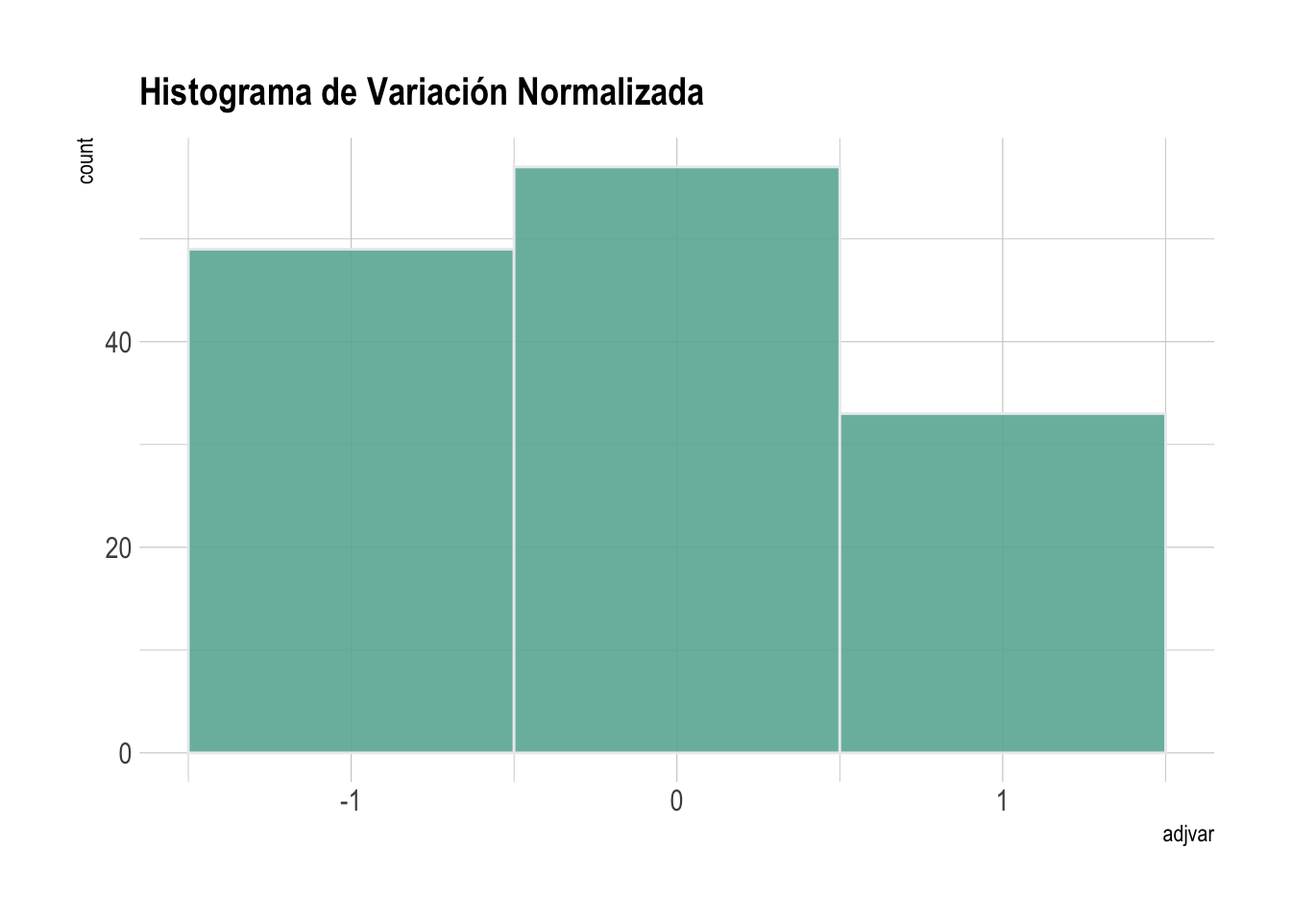
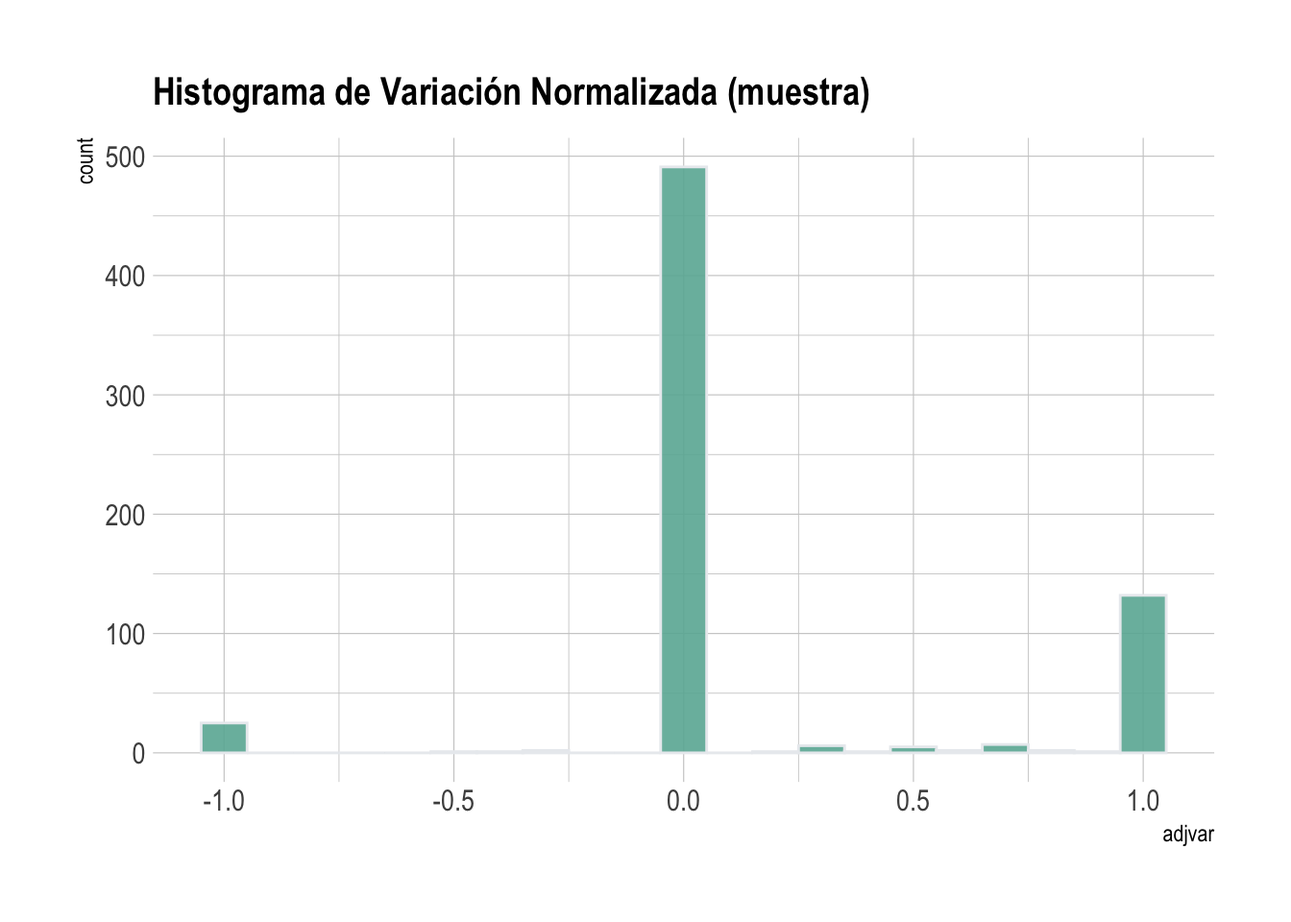
Built site for gh-pages

diff --git a/evo.html b/evo.html
@@ -338,15 +338,15 @@ pre > code.sourceCode > span > a:first-child::before { text-decoration: underlin
 <div class="sourceCode cell-code" id="cb2"><pre class="sourceCode r code-with-copy"><code class="sourceCode r"><span id="cb2-1"><a href="#cb2-1" aria-hidden="true" tabindex="-1"></a>delitos_cat_bc_URB <span class="ot">&lt;-</span> <span class="fu">readRDS</span>(<span class="st">"data/delitos/delitos_eval_bcom_urb.rds"</span>)</span></code><button title="Copy to Clipboard" class="code-copy-button"><i class="bi"></i></button></pre></div>
 </div>
 <div class="cell">
-<div class="sourceCode cell-code" id="cb3"><pre class="sourceCode r code-with-copy"><code class="sourceCode r"><span id="cb3-1"><a href="#cb3-1" aria-hidden="true" tabindex="-1"></a>delitos_cat_bc_URB <span class="ot">&lt;-</span> <span class="fu">readRDS</span>(<span class="st">"data_samples/delitos_eval_bcom_urb.rds"</span>) <span class="sc">%&gt;%</span></span>
-<span id="cb3-2"><a href="#cb3-2" aria-hidden="true" tabindex="-1"></a>  <span class="fu">rename</span>(<span class="at">ZONA =</span> GEOCODIGO, <span class="at">TIPO =</span> Tipo )</span></code><button title="Copy to Clipboard" class="code-copy-button"><i class="bi"></i></button></pre></div>
+<div class="sourceCode cell-code" id="cb3"><pre class="sourceCode r code-with-copy"><code class="sourceCode r"><span id="cb3-1"><a href="#cb3-1" aria-hidden="true" tabindex="-1"></a>delitos_cat_bc_URB <span class="ot">&lt;-</span> <span class="fu">readRDS</span>(<span class="st">"data_samples/delitos_eval_bcom_urb.rds"</span>) </span></code><button title="Copy to Clipboard" class="code-copy-button"><i class="bi"></i></button></pre></div>
 </div>
 <p><strong>Generación de Tablas Resumen por día</strong></p>
 <p>Seleccionamos la columnas que nos interesan y eliminamos la geometría.</p>
 <div class="cell">
 <div class="sourceCode cell-code" id="cb4"><pre class="sourceCode r code-with-copy"><code class="sourceCode r"><span id="cb4-1"><a href="#cb4-1" aria-hidden="true" tabindex="-1"></a>del_all <span class="ot">&lt;-</span> delitos_cat_bc_URB <span class="sc">%&gt;%</span> </span>
-<span id="cb4-2"><a href="#cb4-2" aria-hidden="true" tabindex="-1"></a>  <span class="fu">st_drop_geometry</span>() <span class="sc">%&gt;%</span> </span>
-<span id="cb4-3"><a href="#cb4-3" aria-hidden="true" tabindex="-1"></a>  <span class="fu">select</span>(COMUNA, <span class="at">tiempo =</span> FECHA_DEL,TIPO )</span></code><button title="Copy to Clipboard" class="code-copy-button"><i class="bi"></i></button></pre></div>
+<span id="cb4-2"><a href="#cb4-2" aria-hidden="true" tabindex="-1"></a>  <span class="fu">st_drop_geometry</span>() <span class="sc">%&gt;%</span></span>
+<span id="cb4-3"><a href="#cb4-3" aria-hidden="true" tabindex="-1"></a>  <span class="fu">mutate</span>(<span class="at">tiempo =</span> (<span class="fu">year</span>(FECHA_DEL) <span class="sc">*</span> <span class="dv">100</span>) <span class="sc">+</span> <span class="fu">month</span>(FECHA_DEL)) <span class="sc">%&gt;%</span> </span>
+<span id="cb4-4"><a href="#cb4-4" aria-hidden="true" tabindex="-1"></a>  <span class="fu">select</span>(COMUNA, tiempo, TIPO )</span></code><button title="Copy to Clipboard" class="code-copy-button"><i class="bi"></i></button></pre></div>
 </div>
 <p>Tabla de cuenta de delitos diarios por comuna y tipología</p>
 <div class="cell">
@@ -373,21 +373,9 @@ pre > code.sourceCode > span > a:first-child::before { text-decoration: underlin
 <span id="cb6-2"><a href="#cb6-2" aria-hidden="true" tabindex="-1"></a>  <span class="fu">filter</span>(<span class="sc">!</span><span class="fu">is.na</span>(TIPO)) <span class="sc">%&gt;%</span> </span>
 <span id="cb6-3"><a href="#cb6-3" aria-hidden="true" tabindex="-1"></a>  <span class="fu">group_by</span>(COMUNA, TIPO) <span class="sc">%&gt;%</span> </span>
 <span id="cb6-4"><a href="#cb6-4" aria-hidden="true" tabindex="-1"></a>  <span class="fu">summarise</span>(<span class="at">varianza =</span> <span class="fu">sd</span>(cantidad)<span class="sc">^</span><span class="dv">2</span>,</span>
-<span id="cb6-5"><a href="#cb6-5" aria-hidden="true" tabindex="-1"></a>            <span class="at">cantidad =</span> <span class="fu">n</span>(),  <span class="at">.groups =</span> <span class="st">"keep"</span>)</span>
+<span id="cb6-5"><a href="#cb6-5" aria-hidden="true" tabindex="-1"></a>            <span class="at">cantidad =</span> <span class="fu">sum</span>(cantidad),  <span class="at">.groups =</span> <span class="st">"keep"</span>)</span>
 <span id="cb6-6"><a href="#cb6-6" aria-hidden="true" tabindex="-1"></a></span>
-<span id="cb6-7"><a href="#cb6-7" aria-hidden="true" tabindex="-1"></a><span class="fu">head</span>(varianzas)</span></code><button title="Copy to Clipboard" class="code-copy-button"><i class="bi"></i></button></pre></div>
-<div class="cell-output cell-output-stdout">
-<pre><code># A tibble: 6 × 4
-# Groups:   COMUNA, TIPO [6]
-  COMUNA TIPO     varianza cantidad
-  &lt;chr&gt;  &lt;chr&gt;       &lt;dbl&gt;    &lt;int&gt;
-1 10101  Públicos   0.0428       68
-2 10102  Públicos   0             4
-3 10105  Públicos   0             2
-4 10107  Públicos   0             5
-5 10109  Públicos   0             7
-6 10201  Públicos   0             8</code></pre>
-</div>
+<span id="cb6-7"><a href="#cb6-7" aria-hidden="true" tabindex="-1"></a><span class="co"># head(varianzas)</span></span></code><button title="Copy to Clipboard" class="code-copy-button"><i class="bi"></i></button></pre></div>
 </div>
 </section>
 <section id="periodos" class="level3" data-number="4.3.2">
@@ -395,34 +383,34 @@ pre > code.sourceCode > span > a:first-child::before { text-decoration: underlin
 <p>En esta etapa se van a definir los dos periodos que se compararán y así determinar la variabilidad. En este caso vamos analizar el segundo semestre del año 2017 versus el año 2022.</p>
 <p><strong>Periodo 1</strong></p>
 <div class="cell">
-<div class="sourceCode cell-code" id="cb8"><pre class="sourceCode r code-with-copy"><code class="sourceCode r"><span id="cb8-1"><a href="#cb8-1" aria-hidden="true" tabindex="-1"></a>p1_inicio <span class="ot">&lt;-</span> <span class="st">"2017-07-01"</span></span>
-<span id="cb8-2"><a href="#cb8-2" aria-hidden="true" tabindex="-1"></a>p2_inicio <span class="ot">&lt;-</span> <span class="st">"2017-12-31"</span></span>
-<span id="cb8-3"><a href="#cb8-3" aria-hidden="true" tabindex="-1"></a></span>
-<span id="cb8-4"><a href="#cb8-4" aria-hidden="true" tabindex="-1"></a>ini <span class="ot">&lt;-</span> delcomuna <span class="sc">%&gt;%</span></span>
-<span id="cb8-5"><a href="#cb8-5" aria-hidden="true" tabindex="-1"></a>  <span class="fu">filter</span>(tiempo <span class="sc">&gt;=</span> <span class="fu">ymd</span>(p1_inicio) <span class="sc">&amp;</span> tiempo <span class="sc">&lt;=</span> <span class="fu">ymd</span>(p2_inicio)) <span class="sc">%&gt;%</span> </span>
-<span id="cb8-6"><a href="#cb8-6" aria-hidden="true" tabindex="-1"></a>  <span class="fu">group_by</span>(COMUNA, TIPO) <span class="sc">%&gt;%</span> </span>
-<span id="cb8-7"><a href="#cb8-7" aria-hidden="true" tabindex="-1"></a>  <span class="fu">summarise</span>(<span class="at">inicio =</span> <span class="fu">n</span>(),  <span class="at">.groups =</span> <span class="st">"keep"</span>)</span></code><button title="Copy to Clipboard" class="code-copy-button"><i class="bi"></i></button></pre></div>
+<div class="sourceCode cell-code" id="cb7"><pre class="sourceCode r code-with-copy"><code class="sourceCode r"><span id="cb7-1"><a href="#cb7-1" aria-hidden="true" tabindex="-1"></a>p1_inicio <span class="ot">&lt;-</span> <span class="dv">201707</span></span>
+<span id="cb7-2"><a href="#cb7-2" aria-hidden="true" tabindex="-1"></a>p1_final <span class="ot">&lt;-</span> <span class="dv">201707</span></span>
+<span id="cb7-3"><a href="#cb7-3" aria-hidden="true" tabindex="-1"></a></span>
+<span id="cb7-4"><a href="#cb7-4" aria-hidden="true" tabindex="-1"></a>ini <span class="ot">&lt;-</span> delcomuna <span class="sc">%&gt;%</span></span>
+<span id="cb7-5"><a href="#cb7-5" aria-hidden="true" tabindex="-1"></a>  <span class="fu">filter</span>(tiempo  <span class="sc">%in%</span> p1_inicio<span class="sc">:</span>p1_final) <span class="sc">%&gt;%</span> </span>
+<span id="cb7-6"><a href="#cb7-6" aria-hidden="true" tabindex="-1"></a>  <span class="fu">group_by</span>(COMUNA, TIPO) <span class="sc">%&gt;%</span> </span>
+<span id="cb7-7"><a href="#cb7-7" aria-hidden="true" tabindex="-1"></a>  <span class="fu">summarise</span>(<span class="at">inicio =</span> <span class="fu">sum</span>(cantidad),  <span class="at">.groups =</span> <span class="st">"keep"</span>)</span></code><button title="Copy to Clipboard" class="code-copy-button"><i class="bi"></i></button></pre></div>
 </div>
-<p><strong>Periodo 1</strong></p>
+<p><strong>Periodo 2</strong></p>
 <div class="cell">
-<div class="sourceCode cell-code" id="cb9"><pre class="sourceCode r code-with-copy"><code class="sourceCode r"><span id="cb9-1"><a href="#cb9-1" aria-hidden="true" tabindex="-1"></a>p1_fin <span class="ot">&lt;-</span> <span class="st">"2022-07-01"</span></span>
-<span id="cb9-2"><a href="#cb9-2" aria-hidden="true" tabindex="-1"></a>p2_fin <span class="ot">&lt;-</span> <span class="st">"2022-12-31"</span></span>
-<span id="cb9-3"><a href="#cb9-3" aria-hidden="true" tabindex="-1"></a></span>
-<span id="cb9-4"><a href="#cb9-4" aria-hidden="true" tabindex="-1"></a>fin <span class="ot">&lt;-</span> delcomuna <span class="sc">%&gt;%</span></span>
-<span id="cb9-5"><a href="#cb9-5" aria-hidden="true" tabindex="-1"></a>  <span class="fu">filter</span>(tiempo <span class="sc">&gt;=</span> <span class="fu">ymd</span>(p1_fin) <span class="sc">&amp;</span> tiempo <span class="sc">&lt;=</span> <span class="fu">ymd</span>(p2_fin)) <span class="sc">%&gt;%</span> </span>
-<span id="cb9-6"><a href="#cb9-6" aria-hidden="true" tabindex="-1"></a>  <span class="fu">group_by</span>(COMUNA, TIPO) <span class="sc">%&gt;%</span> </span>
-<span id="cb9-7"><a href="#cb9-7" aria-hidden="true" tabindex="-1"></a>  <span class="fu">summarise</span>(<span class="at">fin =</span> <span class="fu">n</span>(),  <span class="at">.groups =</span> <span class="st">"keep"</span>)</span></code><button title="Copy to Clipboard" class="code-copy-button"><i class="bi"></i></button></pre></div>
+<div class="sourceCode cell-code" id="cb8"><pre class="sourceCode r code-with-copy"><code class="sourceCode r"><span id="cb8-1"><a href="#cb8-1" aria-hidden="true" tabindex="-1"></a>p2_inicio <span class="ot">&lt;-</span> <span class="dv">202207</span></span>
+<span id="cb8-2"><a href="#cb8-2" aria-hidden="true" tabindex="-1"></a>p2_final <span class="ot">&lt;-</span> <span class="dv">202212</span></span>
+<span id="cb8-3"><a href="#cb8-3" aria-hidden="true" tabindex="-1"></a></span>
+<span id="cb8-4"><a href="#cb8-4" aria-hidden="true" tabindex="-1"></a>fin <span class="ot">&lt;-</span> delcomuna <span class="sc">%&gt;%</span></span>
+<span id="cb8-5"><a href="#cb8-5" aria-hidden="true" tabindex="-1"></a>  <span class="fu">filter</span>(tiempo  <span class="sc">%in%</span> p2_inicio<span class="sc">:</span>p2_final) <span class="sc">%&gt;%</span> </span>
+<span id="cb8-6"><a href="#cb8-6" aria-hidden="true" tabindex="-1"></a>  <span class="fu">group_by</span>(COMUNA, TIPO) <span class="sc">%&gt;%</span> </span>
+<span id="cb8-7"><a href="#cb8-7" aria-hidden="true" tabindex="-1"></a>  <span class="fu">summarise</span>(<span class="at">fin =</span> <span class="fu">sum</span>(cantidad),  <span class="at">.groups =</span> <span class="st">"keep"</span>)</span></code><button title="Copy to Clipboard" class="code-copy-button"><i class="bi"></i></button></pre></div>
 </div>
 </section>
 <section id="consolidación" class="level3" data-number="4.3.3">
 <h3 data-number="4.3.3" class="anchored" data-anchor-id="consolidación"><span class="header-section-number">4.3.3</span> Consolidación</h3>
 <p>Finalmente se unen las tablas calculadas.</p>
 <div class="cell">
-<div class="sourceCode cell-code" id="cb10"><pre class="sourceCode r code-with-copy"><code class="sourceCode r"><span id="cb10-1"><a href="#cb10-1" aria-hidden="true" tabindex="-1"></a>adjvar <span class="ot">&lt;-</span> varianzas <span class="sc">%&gt;%</span> </span>
-<span id="cb10-2"><a href="#cb10-2" aria-hidden="true" tabindex="-1"></a>  <span class="fu">left_join</span>(ini, <span class="at">by =</span> <span class="fu">c</span>(<span class="st">"COMUNA"</span>, <span class="st">"TIPO"</span>)) <span class="sc">%&gt;%</span> </span>
-<span id="cb10-3"><a href="#cb10-3" aria-hidden="true" tabindex="-1"></a>  <span class="fu">left_join</span>(fin, <span class="at">by =</span> <span class="fu">c</span>(<span class="st">"COMUNA"</span>, <span class="st">"TIPO"</span>)) <span class="sc">%&gt;%</span> </span>
-<span id="cb10-4"><a href="#cb10-4" aria-hidden="true" tabindex="-1"></a>  <span class="fu">mutate_if</span>(<span class="at">.predicate =</span> is.numeric,</span>
-<span id="cb10-5"><a href="#cb10-5" aria-hidden="true" tabindex="-1"></a>            <span class="at">.funs =</span> <span class="cf">function</span>(x) <span class="fu">ifelse</span>(<span class="fu">is.na</span>(x), <span class="dv">0</span>, x))</span></code><button title="Copy to Clipboard" class="code-copy-button"><i class="bi"></i></button></pre></div>
+<div class="sourceCode cell-code" id="cb9"><pre class="sourceCode r code-with-copy"><code class="sourceCode r"><span id="cb9-1"><a href="#cb9-1" aria-hidden="true" tabindex="-1"></a>adjvar <span class="ot">&lt;-</span> varianzas <span class="sc">%&gt;%</span> </span>
+<span id="cb9-2"><a href="#cb9-2" aria-hidden="true" tabindex="-1"></a>  <span class="fu">left_join</span>(ini, <span class="at">by =</span> <span class="fu">c</span>(<span class="st">"COMUNA"</span>, <span class="st">"TIPO"</span>)) <span class="sc">%&gt;%</span> </span>
+<span id="cb9-3"><a href="#cb9-3" aria-hidden="true" tabindex="-1"></a>  <span class="fu">left_join</span>(fin, <span class="at">by =</span> <span class="fu">c</span>(<span class="st">"COMUNA"</span>, <span class="st">"TIPO"</span>)) <span class="sc">%&gt;%</span> </span>
+<span id="cb9-4"><a href="#cb9-4" aria-hidden="true" tabindex="-1"></a>  <span class="fu">mutate_if</span>(<span class="at">.predicate =</span> is.numeric,</span>
+<span id="cb9-5"><a href="#cb9-5" aria-hidden="true" tabindex="-1"></a>            <span class="at">.funs =</span> <span class="cf">function</span>(x) <span class="fu">ifelse</span>(<span class="fu">is.na</span>(x), <span class="dv">0</span>, x))</span></code><button title="Copy to Clipboard" class="code-copy-button"><i class="bi"></i></button></pre></div>
 </div>
 </section>
 </section>
@@ -430,22 +418,24 @@ pre > code.sourceCode > span > a:first-child::before { text-decoration: underlin
 <h2 data-number="4.4" class="anchored" data-anchor-id="indicador-de-variación"><span class="header-section-number">4.4</span> Indicador de Variación</h2>
 <p>En esta etapa se calcularà el indicador de la variación por cada tipo de delito y comuna. Corresponde a la diferencia entre los periodos (evolución) y se divide la suma de los dos períodos, para que el valor quede normalizado en valores entre 1 y -1.</p>
 <div class="cell">
-<div class="sourceCode cell-code" id="cb11"><pre class="sourceCode r code-with-copy"><code class="sourceCode r"><span id="cb11-1"><a href="#cb11-1" aria-hidden="true" tabindex="-1"></a>adjvar <span class="ot">&lt;-</span> adjvar <span class="sc">%&gt;%</span> </span>
-<span id="cb11-2"><a href="#cb11-2" aria-hidden="true" tabindex="-1"></a>  <span class="fu">mutate</span>(<span class="at">adjvar =</span> (fin<span class="sc">-</span>inicio)<span class="sc">/</span>(fin<span class="sc">+</span>inicio))</span></code><button title="Copy to Clipboard" class="code-copy-button"><i class="bi"></i></button></pre></div>
+<div class="sourceCode cell-code" id="cb10"><pre class="sourceCode r code-with-copy"><code class="sourceCode r"><span id="cb10-1"><a href="#cb10-1" aria-hidden="true" tabindex="-1"></a>adjvar <span class="ot">&lt;-</span> adjvar <span class="sc">%&gt;%</span> </span>
+<span id="cb10-2"><a href="#cb10-2" aria-hidden="true" tabindex="-1"></a>  <span class="fu">mutate</span>(<span class="at">adjvar =</span> (fin<span class="sc">-</span>inicio)<span class="sc">/</span>(fin<span class="sc">+</span>inicio)) <span class="sc">%&gt;%</span> </span>
+<span id="cb10-3"><a href="#cb10-3" aria-hidden="true" tabindex="-1"></a>  <span class="fu">mutate_if</span>(<span class="at">.predicate =</span> is.numeric,</span>
+<span id="cb10-4"><a href="#cb10-4" aria-hidden="true" tabindex="-1"></a>            <span class="at">.funs =</span> <span class="cf">function</span>(x) <span class="fu">ifelse</span>(<span class="fu">is.na</span>(x), <span class="dv">0</span>, x))</span></code><button title="Copy to Clipboard" class="code-copy-button"><i class="bi"></i></button></pre></div>
 </div>
 <p>Histograma de la Variabilidad.</p>
 <div class="cell">
-<div class="sourceCode cell-code" id="cb12"><pre class="sourceCode r code-with-copy"><code class="sourceCode r"><span id="cb12-1"><a href="#cb12-1" aria-hidden="true" tabindex="-1"></a><span class="fu">library</span>(hrbrthemes)</span>
-<span id="cb12-2"><a href="#cb12-2" aria-hidden="true" tabindex="-1"></a>p <span class="ot">&lt;-</span> adjvar <span class="sc">%&gt;%</span></span>
-<span id="cb12-3"><a href="#cb12-3" aria-hidden="true" tabindex="-1"></a>  <span class="fu">ggplot</span>( <span class="fu">aes</span>(<span class="at">x=</span>adjvar)) <span class="sc">+</span></span>
-<span id="cb12-4"><a href="#cb12-4" aria-hidden="true" tabindex="-1"></a>    <span class="fu">geom_histogram</span>( <span class="at">binwidth=</span><span class="dv">1</span>,<span class="at">bins =</span> <span class="dv">3</span>, </span>
-<span id="cb12-5"><a href="#cb12-5" aria-hidden="true" tabindex="-1"></a>                    <span class="at">fill=</span><span class="st">"#69b3a2"</span>, <span class="at">color=</span><span class="st">"#e9ecef"</span>, <span class="at">alpha=</span><span class="fl">0.9</span>) <span class="sc">+</span></span>
-<span id="cb12-6"><a href="#cb12-6" aria-hidden="true" tabindex="-1"></a>    <span class="fu">ggtitle</span>(<span class="st">"Histograma de Variación Normalizada"</span>) <span class="sc">+</span></span>
-<span id="cb12-7"><a href="#cb12-7" aria-hidden="true" tabindex="-1"></a>    <span class="fu">theme_ipsum</span>() <span class="sc">+</span></span>
-<span id="cb12-8"><a href="#cb12-8" aria-hidden="true" tabindex="-1"></a>    <span class="fu">theme</span>(</span>
-<span id="cb12-9"><a href="#cb12-9" aria-hidden="true" tabindex="-1"></a>      <span class="at">plot.title =</span> <span class="fu">element_text</span>(<span class="at">size=</span><span class="dv">15</span>)</span>
-<span id="cb12-10"><a href="#cb12-10" aria-hidden="true" tabindex="-1"></a>    )</span>
-<span id="cb12-11"><a href="#cb12-11" aria-hidden="true" tabindex="-1"></a>p</span></code><button title="Copy to Clipboard" class="code-copy-button"><i class="bi"></i></button></pre></div>
+<div class="sourceCode cell-code" id="cb11"><pre class="sourceCode r code-with-copy"><code class="sourceCode r"><span id="cb11-1"><a href="#cb11-1" aria-hidden="true" tabindex="-1"></a><span class="fu">library</span>(hrbrthemes)</span>
+<span id="cb11-2"><a href="#cb11-2" aria-hidden="true" tabindex="-1"></a>p <span class="ot">&lt;-</span> adjvar <span class="sc">%&gt;%</span></span>
+<span id="cb11-3"><a href="#cb11-3" aria-hidden="true" tabindex="-1"></a>  <span class="fu">ggplot</span>( <span class="fu">aes</span>(<span class="at">x=</span>adjvar)) <span class="sc">+</span></span>
+<span id="cb11-4"><a href="#cb11-4" aria-hidden="true" tabindex="-1"></a>    <span class="fu">geom_histogram</span>( <span class="at">binwidth=</span><span class="fl">0.1</span>, </span>
+<span id="cb11-5"><a href="#cb11-5" aria-hidden="true" tabindex="-1"></a>                    <span class="at">fill=</span><span class="st">"#69b3a2"</span>, <span class="at">color=</span><span class="st">"#e9ecef"</span>, <span class="at">alpha=</span><span class="fl">0.9</span>) <span class="sc">+</span></span>
+<span id="cb11-6"><a href="#cb11-6" aria-hidden="true" tabindex="-1"></a>    <span class="fu">ggtitle</span>(<span class="st">"Histograma de Variación Normalizada (muestra)"</span>) <span class="sc">+</span></span>
+<span id="cb11-7"><a href="#cb11-7" aria-hidden="true" tabindex="-1"></a>    <span class="fu">theme_ipsum</span>() <span class="sc">+</span></span>
+<span id="cb11-8"><a href="#cb11-8" aria-hidden="true" tabindex="-1"></a>    <span class="fu">theme</span>(</span>
+<span id="cb11-9"><a href="#cb11-9" aria-hidden="true" tabindex="-1"></a>      <span class="at">plot.title =</span> <span class="fu">element_text</span>(<span class="at">size=</span><span class="dv">15</span>)</span>
+<span id="cb11-10"><a href="#cb11-10" aria-hidden="true" tabindex="-1"></a>    )</span>
+<span id="cb11-11"><a href="#cb11-11" aria-hidden="true" tabindex="-1"></a>p</span></code><button title="Copy to Clipboard" class="code-copy-button"><i class="bi"></i></button></pre></div>
 <div class="cell-output-display">
 <p><img src="evo_files/figure-html/unnamed-chunk-11-1.png" class="img-fluid" width="672"></p>
 </div>
@@ -456,54 +446,54 @@ pre > code.sourceCode > span > a:first-child::before { text-decoration: underlin
 <p>Finalmente se agregará elos resultados del análisis a la la geometrías comunales de Chile para poder cartografias los resultados.</p>
 <p>Se de primeramente transformar las estructra de datos de formato largo a formato ancho, para que los valores de variabilidad de cada tipo de delito quede por columnas.</p>
 <div class="cell">
-<div class="sourceCode cell-code" id="cb13"><pre class="sourceCode r code-with-copy"><code class="sourceCode r"><span id="cb13-1"><a href="#cb13-1" aria-hidden="true" tabindex="-1"></a>varianzas <span class="ot">&lt;-</span> adjvar <span class="sc">%&gt;%</span> </span>
-<span id="cb13-2"><a href="#cb13-2" aria-hidden="true" tabindex="-1"></a>  <span class="fu">mutate</span>(<span class="at">TIPO =</span> <span class="fu">gsub</span>(<span class="at">pattern =</span> <span class="st">" "</span>, <span class="at">replacement =</span> <span class="st">"_"</span>, <span class="at">x =</span> TIPO)) <span class="sc">%&gt;%</span> </span>
-<span id="cb13-3"><a href="#cb13-3" aria-hidden="true" tabindex="-1"></a>  <span class="fu">pivot_wider</span>(<span class="at">names_from =</span> TIPO,</span>
-<span id="cb13-4"><a href="#cb13-4" aria-hidden="true" tabindex="-1"></a>              <span class="at">values_from =</span> <span class="fu">c</span>(varianza, cantidad, inicio, fin, adjvar))</span></code><button title="Copy to Clipboard" class="code-copy-button"><i class="bi"></i></button></pre></div>
+<div class="sourceCode cell-code" id="cb12"><pre class="sourceCode r code-with-copy"><code class="sourceCode r"><span id="cb12-1"><a href="#cb12-1" aria-hidden="true" tabindex="-1"></a>varianzas <span class="ot">&lt;-</span> adjvar <span class="sc">%&gt;%</span></span>
+<span id="cb12-2"><a href="#cb12-2" aria-hidden="true" tabindex="-1"></a>  <span class="fu">select</span>(<span class="sc">-</span>varianza, <span class="sc">-</span>cantidad, <span class="sc">-</span>inicio, <span class="sc">-</span>fin) <span class="sc">%&gt;%</span> </span>
+<span id="cb12-3"><a href="#cb12-3" aria-hidden="true" tabindex="-1"></a>  <span class="fu">mutate</span>(<span class="at">TIPO =</span> <span class="fu">gsub</span>(<span class="at">pattern =</span> <span class="st">" "</span>, <span class="at">replacement =</span> <span class="st">"_"</span>, <span class="at">x =</span> TIPO)) <span class="sc">%&gt;%</span> </span>
+<span id="cb12-4"><a href="#cb12-4" aria-hidden="true" tabindex="-1"></a>  <span class="fu">pivot_wider</span>(<span class="at">names_from =</span> TIPO,</span>
+<span id="cb12-5"><a href="#cb12-5" aria-hidden="true" tabindex="-1"></a>              <span class="at">values_from =</span> <span class="fu">c</span>(adjvar), <span class="at">values_fill =</span> <span class="dv">0</span>)</span></code><button title="Copy to Clipboard" class="code-copy-button"><i class="bi"></i></button></pre></div>
 </div>
-<p>Agregar a lagesometrias comunales del INE.</p>
+<p>Agregar a la geometrias comunales del INE.</p>
 <div class="cell">
-<div class="sourceCode cell-code" id="cb14"><pre class="sourceCode r code-with-copy"><code class="sourceCode r"><span id="cb14-1"><a href="#cb14-1" aria-hidden="true" tabindex="-1"></a>Comunas_Chile <span class="ot">&lt;-</span> <span class="fu">readRDS</span>(<span class="st">"data/ine/Comunas_Chile.rds"</span>)</span></code><button title="Copy to Clipboard" class="code-copy-button"><i class="bi"></i></button></pre></div>
+<div class="sourceCode cell-code" id="cb13"><pre class="sourceCode r code-with-copy"><code class="sourceCode r"><span id="cb13-1"><a href="#cb13-1" aria-hidden="true" tabindex="-1"></a>Comunas_Chile <span class="ot">&lt;-</span> <span class="fu">readRDS</span>(<span class="st">"data/ine/Comunas_Chile.rds"</span>)</span></code><button title="Copy to Clipboard" class="code-copy-button"><i class="bi"></i></button></pre></div>
 </div>
 <div class="cell">
-<div class="sourceCode cell-code" id="cb15"><pre class="sourceCode r code-with-copy"><code class="sourceCode r"><span id="cb15-1"><a href="#cb15-1" aria-hidden="true" tabindex="-1"></a>comdel_dif <span class="ot">&lt;-</span> Comunas_Chile <span class="sc">%&gt;%</span> </span>
-<span id="cb15-2"><a href="#cb15-2" aria-hidden="true" tabindex="-1"></a>  <span class="fu">filter</span>(COMUNA <span class="sc">%in%</span> varianzas<span class="sc">$</span>COMUNA) <span class="sc">%&gt;%</span></span>
-<span id="cb15-3"><a href="#cb15-3" aria-hidden="true" tabindex="-1"></a>  <span class="fu">left_join</span>(varianzas, <span class="at">by  =</span> <span class="st">"COMUNA"</span>) <span class="sc">%&gt;%</span> </span>
-<span id="cb15-4"><a href="#cb15-4" aria-hidden="true" tabindex="-1"></a>  <span class="fu">mutate_if</span>(<span class="at">.predicate =</span> is.numeric,</span>
-<span id="cb15-5"><a href="#cb15-5" aria-hidden="true" tabindex="-1"></a>            <span class="at">.funs =</span> <span class="cf">function</span>(x) <span class="fu">ifelse</span>(<span class="fu">is.na</span>(x), <span class="dv">0</span>, x))</span></code><button title="Copy to Clipboard" class="code-copy-button"><i class="bi"></i></button></pre></div>
+<div class="sourceCode cell-code" id="cb14"><pre class="sourceCode r code-with-copy"><code class="sourceCode r"><span id="cb14-1"><a href="#cb14-1" aria-hidden="true" tabindex="-1"></a>comdel_dif <span class="ot">&lt;-</span> Comunas_Chile <span class="sc">%&gt;%</span> </span>
+<span id="cb14-2"><a href="#cb14-2" aria-hidden="true" tabindex="-1"></a>  <span class="fu">left_join</span>(varianzas, <span class="at">by  =</span> <span class="st">"COMUNA"</span>) <span class="sc">%&gt;%</span> </span>
+<span id="cb14-3"><a href="#cb14-3" aria-hidden="true" tabindex="-1"></a>  <span class="fu">mutate_if</span>(<span class="at">.predicate =</span> is.numeric,</span>
+<span id="cb14-4"><a href="#cb14-4" aria-hidden="true" tabindex="-1"></a>            <span class="at">.funs =</span> <span class="cf">function</span>(x) <span class="fu">ifelse</span>(<span class="fu">is.na</span>(x), <span class="dv">0</span>, x))</span></code><button title="Copy to Clipboard" class="code-copy-button"><i class="bi"></i></button></pre></div>
 </div>
 <p>Guardar Resultados en formato shapefiles</p>
 <div class="cell">
-<div class="sourceCode cell-code" id="cb16"><pre class="sourceCode r code-with-copy"><code class="sourceCode r"><span id="cb16-1"><a href="#cb16-1" aria-hidden="true" tabindex="-1"></a><span class="fu">st_write</span>(comdel_dif, <span class="st">"data/delitos/comdel_dif.shp"</span>)</span></code><button title="Copy to Clipboard" class="code-copy-button"><i class="bi"></i></button></pre></div>
+<div class="sourceCode cell-code" id="cb15"><pre class="sourceCode r code-with-copy"><code class="sourceCode r"><span id="cb15-1"><a href="#cb15-1" aria-hidden="true" tabindex="-1"></a><span class="fu">st_write</span>(comdel_dif, <span class="st">"data/delitos/comdel_dif.shp"</span>, <span class="at">delete_dsn =</span> T)</span></code><button title="Copy to Clipboard" class="code-copy-button"><i class="bi"></i></button></pre></div>
 </div>
 <section id="revisión-por-tipología" class="level3" data-number="4.5.1">
 <h3 data-number="4.5.1" class="anchored" data-anchor-id="revisión-por-tipología"><span class="header-section-number">4.5.1</span> Revisión por tipología</h3>
 <p><strong>Selección de Región y Tipo de Delitos</strong></p>
 <div class="cell">
-<div class="sourceCode cell-code" id="cb17"><pre class="sourceCode r code-with-copy"><code class="sourceCode r"><span id="cb17-1"><a href="#cb17-1" aria-hidden="true" tabindex="-1"></a><span class="co"># grep(pattern = "Secuestros", x = names(comdel_dif), value = T)</span></span>
-<span id="cb17-2"><a href="#cb17-2" aria-hidden="true" tabindex="-1"></a>tipo <span class="ot">=</span> <span class="st">"adjvar_Secuestros"</span></span>
-<span id="cb17-3"><a href="#cb17-3" aria-hidden="true" tabindex="-1"></a>region <span class="ot">=</span> <span class="st">"13"</span></span>
-<span id="cb17-4"><a href="#cb17-4" aria-hidden="true" tabindex="-1"></a></span>
-<span id="cb17-5"><a href="#cb17-5" aria-hidden="true" tabindex="-1"></a>r_eval <span class="ot">=</span> comdel_dif <span class="sc">%&gt;%</span> </span>
-<span id="cb17-6"><a href="#cb17-6" aria-hidden="true" tabindex="-1"></a>  <span class="fu">filter</span>(REGION <span class="sc">==</span> <span class="st">"13"</span>)</span></code><button title="Copy to Clipboard" class="code-copy-button"><i class="bi"></i></button></pre></div>
+<div class="sourceCode cell-code" id="cb16"><pre class="sourceCode r code-with-copy"><code class="sourceCode r"><span id="cb16-1"><a href="#cb16-1" aria-hidden="true" tabindex="-1"></a><span class="co"># grep(pattern = "Desórdenes", x = names(varianzas), value = T)</span></span>
+<span id="cb16-2"><a href="#cb16-2" aria-hidden="true" tabindex="-1"></a>tipo <span class="ot">=</span> <span class="st">"Desórdenes"</span></span>
+<span id="cb16-3"><a href="#cb16-3" aria-hidden="true" tabindex="-1"></a>region <span class="ot">=</span> <span class="st">"13"</span></span>
+<span id="cb16-4"><a href="#cb16-4" aria-hidden="true" tabindex="-1"></a></span>
+<span id="cb16-5"><a href="#cb16-5" aria-hidden="true" tabindex="-1"></a>r_eval <span class="ot">=</span> comdel_dif <span class="sc">%&gt;%</span> </span>
+<span id="cb16-6"><a href="#cb16-6" aria-hidden="true" tabindex="-1"></a>  <span class="fu">filter</span>(REGION <span class="sc">==</span> <span class="st">"13"</span>)</span></code><button title="Copy to Clipboard" class="code-copy-button"><i class="bi"></i></button></pre></div>
 </div>
 <p><strong>Histograma</strong></p>
 <div class="cell">
-<div class="sourceCode cell-code" id="cb18"><pre class="sourceCode r code-with-copy"><code class="sourceCode r"><span id="cb18-1"><a href="#cb18-1" aria-hidden="true" tabindex="-1"></a>p <span class="ot">&lt;-</span> r_eval <span class="sc">%&gt;%</span></span>
-<span id="cb18-2"><a href="#cb18-2" aria-hidden="true" tabindex="-1"></a>  <span class="fu">st_drop_geometry</span>() <span class="sc">%&gt;%</span> </span>
-<span id="cb18-3"><a href="#cb18-3" aria-hidden="true" tabindex="-1"></a>  <span class="fu">ggplot</span>( <span class="fu">aes_string</span>(<span class="at">x=</span>tipo)) <span class="sc">+</span></span>
-<span id="cb18-4"><a href="#cb18-4" aria-hidden="true" tabindex="-1"></a>    <span class="fu">geom_histogram</span>( <span class="at">binwidth=</span><span class="dv">1</span>,<span class="at">bins =</span> <span class="dv">3</span>, </span>
-<span id="cb18-5"><a href="#cb18-5" aria-hidden="true" tabindex="-1"></a>                    <span class="at">fill=</span><span class="st">"#69b3a2"</span>, <span class="at">color=</span><span class="st">"#e9ecef"</span>, <span class="at">alpha=</span><span class="fl">0.9</span>) <span class="sc">+</span></span>
-<span id="cb18-6"><a href="#cb18-6" aria-hidden="true" tabindex="-1"></a>    <span class="fu">ggtitle</span>(<span class="st">"Histograma de Variación Normalizada"</span>) <span class="sc">+</span></span>
-<span id="cb18-7"><a href="#cb18-7" aria-hidden="true" tabindex="-1"></a>    <span class="fu">theme_ipsum</span>() <span class="sc">+</span></span>
-<span id="cb18-8"><a href="#cb18-8" aria-hidden="true" tabindex="-1"></a>    <span class="fu">theme</span>(</span>
-<span id="cb18-9"><a href="#cb18-9" aria-hidden="true" tabindex="-1"></a>      <span class="at">plot.title =</span> <span class="fu">element_text</span>(<span class="at">size=</span><span class="dv">15</span>)</span>
-<span id="cb18-10"><a href="#cb18-10" aria-hidden="true" tabindex="-1"></a>    )</span>
-<span id="cb18-11"><a href="#cb18-11" aria-hidden="true" tabindex="-1"></a>p</span></code><button title="Copy to Clipboard" class="code-copy-button"><i class="bi"></i></button></pre></div>
+<div class="sourceCode cell-code" id="cb17"><pre class="sourceCode r code-with-copy"><code class="sourceCode r"><span id="cb17-1"><a href="#cb17-1" aria-hidden="true" tabindex="-1"></a>p <span class="ot">&lt;-</span> r_eval <span class="sc">%&gt;%</span></span>
+<span id="cb17-2"><a href="#cb17-2" aria-hidden="true" tabindex="-1"></a>  <span class="fu">st_drop_geometry</span>() <span class="sc">%&gt;%</span> </span>
+<span id="cb17-3"><a href="#cb17-3" aria-hidden="true" tabindex="-1"></a>  <span class="fu">ggplot</span>( <span class="fu">aes_string</span>(<span class="at">x=</span>tipo)) <span class="sc">+</span></span>
+<span id="cb17-4"><a href="#cb17-4" aria-hidden="true" tabindex="-1"></a>    <span class="fu">geom_histogram</span>( <span class="at">binwidth=</span><span class="fl">0.1</span>,<span class="at">bins =</span> <span class="dv">3</span>, </span>
+<span id="cb17-5"><a href="#cb17-5" aria-hidden="true" tabindex="-1"></a>                    <span class="at">fill=</span><span class="st">"#69b3a2"</span>, <span class="at">color=</span><span class="st">"#e9ecef"</span>, <span class="at">alpha=</span><span class="fl">0.9</span>) <span class="sc">+</span></span>
+<span id="cb17-6"><a href="#cb17-6" aria-hidden="true" tabindex="-1"></a>    <span class="fu">ggtitle</span>(<span class="st">"Histograma de Variación Normalizada"</span>) <span class="sc">+</span></span>
+<span id="cb17-7"><a href="#cb17-7" aria-hidden="true" tabindex="-1"></a>    <span class="fu">theme_ipsum</span>() <span class="sc">+</span></span>
+<span id="cb17-8"><a href="#cb17-8" aria-hidden="true" tabindex="-1"></a>    <span class="fu">theme</span>(</span>
+<span id="cb17-9"><a href="#cb17-9" aria-hidden="true" tabindex="-1"></a>      <span class="at">plot.title =</span> <span class="fu">element_text</span>(<span class="at">size=</span><span class="dv">15</span>)</span>
+<span id="cb17-10"><a href="#cb17-10" aria-hidden="true" tabindex="-1"></a>    )</span>
+<span id="cb17-11"><a href="#cb17-11" aria-hidden="true" tabindex="-1"></a>p</span></code><button title="Copy to Clipboard" class="code-copy-button"><i class="bi"></i></button></pre></div>
 </div>
 <p><strong>Visualización Espacial</strong></p>
 <div class="cell">
-<div class="sourceCode cell-code" id="cb19"><pre class="sourceCode r code-with-copy"><code class="sourceCode r"><span id="cb19-1"><a href="#cb19-1" aria-hidden="true" tabindex="-1"></a><span class="fu">mapview</span>(r_eval, <span class="at">zcol =</span> <span class="st">"adjvar_Secuestros"</span>)</span></code><button title="Copy to Clipboard" class="code-copy-button"><i class="bi"></i></button></pre></div>
+<div class="sourceCode cell-code" id="cb18"><pre class="sourceCode r code-with-copy"><code class="sourceCode r"><span id="cb18-1"><a href="#cb18-1" aria-hidden="true" tabindex="-1"></a><span class="fu">mapview</span>(r_eval, <span class="at">zcol =</span> tipo)</span></code><button title="Copy to Clipboard" class="code-copy-button"><i class="bi"></i></button></pre></div>
 </div>
 <center>
 <img src="images/secuestros_var.png" class="img-fluid" style="width:90.0%">

diff --git a/variables.html b/variables.html
@@ -352,19 +352,19 @@ pre > code.sourceCode > span > a:first-child::before { text-decoration: underlin
 <div class="sourceCode cell-code" id="cb7"><pre class="sourceCode r code-with-copy"><code class="sourceCode r"><span id="cb7-1"><a href="#cb7-1" aria-hidden="true" tabindex="-1"></a>ru <span class="ot">&lt;-</span> <span class="fu">runif</span>(<span class="at">n =</span> <span class="dv">100</span>, <span class="at">min =</span> <span class="dv">1</span>, <span class="at">max =</span> <span class="dv">10</span>)</span>
 <span id="cb7-2"><a href="#cb7-2" aria-hidden="true" tabindex="-1"></a>ru</span></code><button title="Copy to Clipboard" class="code-copy-button"><i class="bi"></i></button></pre></div>
 <div class="cell-output cell-output-stdout">
-<pre><code>  [1] 3.456994 9.858976 6.120135 2.098249 2.302540 9.550429 5.759226 7.613156
-  [9] 4.992746 4.652783 1.869070 1.474843 3.201659 6.475494 8.852576 4.911414
- [17] 6.542215 4.234994 4.642928 1.581963 3.821358 6.660769 3.555277 9.143173
- [25] 9.787470 2.111812 7.538390 5.515504 9.264172 8.128866 9.788005 6.541272
- [33] 9.199145 4.111481 5.736330 9.568525 9.349318 5.831027 5.519937 3.498662
- [41] 7.044953 9.084283 3.337709 7.977747 5.769734 1.573871 2.887827 8.245489
- [49] 2.583615 8.448083 5.879434 6.770437 6.718791 6.933110 5.443422 6.237445
- [57] 3.083318 9.075873 8.029258 7.733110 7.884710 8.402778 8.465140 5.789355
- [65] 1.776740 9.630101 6.034895 4.682663 2.867635 1.472135 4.111198 4.670917
- [73] 4.972558 2.262823 3.088942 6.911793 6.547618 7.881541 8.484374 4.443077
- [81] 6.772589 7.478196 5.589437 6.981458 2.052192 8.054728 5.322436 4.799487
- [89] 3.746193 3.933247 7.806521 2.843109 3.285824 5.747954 6.162964 8.622439
- [97] 5.665009 7.849366 7.813588 5.133889</code></pre>
+<pre><code>  [1] 6.799305 9.520070 9.725174 8.830633 6.871885 1.335451 6.195577 8.790724
+  [9] 1.585075 1.078724 5.722346 3.468438 5.518768 2.991847 1.089793 1.476719
+ [17] 9.111789 2.101010 1.087487 7.877774 9.865356 4.757106 8.814464 8.492182
+ [25] 7.130898 7.867023 6.521540 3.818409 3.862111 6.012153 5.584035 6.560863
+ [33] 5.270028 7.108809 1.895420 1.151278 1.582472 8.576308 4.509436 9.539154
+ [41] 7.299488 6.016688 5.655518 5.985131 1.695694 5.805775 4.102286 7.466406
+ [49] 4.738818 6.327122 1.107299 5.709943 9.453834 2.847198 2.014526 7.817694
+ [57] 4.934211 7.433961 2.178353 5.546824 1.598258 6.784450 2.263365 7.229912
+ [65] 9.318177 3.390186 4.591581 2.567105 9.694240 6.589062 2.488258 3.402812
+ [73] 7.436055 5.748363 7.431929 8.249274 7.256058 1.218908 2.677053 1.863686
+ [81] 5.367192 1.769101 4.908961 4.344064 2.613289 1.093984 6.515284 8.926874
+ [89] 5.953790 7.581751 7.603623 8.803680 9.495467 9.636963 1.708248 4.609282
+ [97] 5.985045 3.924190 1.462628 9.612543</code></pre>
 </div>
 </div>
 <div class="cell" data-layout-align="center">
@@ -383,7 +383,7 @@ pre > code.sourceCode > span > a:first-child::before { text-decoration: underlin
 <div class="cell">
 <div class="sourceCode cell-code" id="cb10"><pre class="sourceCode r code-with-copy"><code class="sourceCode r"><span id="cb10-1"><a href="#cb10-1" aria-hidden="true" tabindex="-1"></a><span class="fu">sample.int</span>(<span class="at">n =</span> <span class="dv">6</span>, <span class="at">size =</span> <span class="dv">10</span>, <span class="at">replace =</span> T)</span></code><button title="Copy to Clipboard" class="code-copy-button"><i class="bi"></i></button></pre></div>
 <div class="cell-output cell-output-stdout">
-<pre><code> [1] 5 6 1 6 6 1 6 5 3 3</code></pre>
+<pre><code> [1] 2 2 5 4 6 4 6 5 1 2</code></pre>
 </div>
 </div>
 </section>

diff --git a/control_r.html b/control_r.html
@@ -439,10 +439,10 @@ pre > code.sourceCode > span > a:first-child::before { text-decoration: underlin
 <span id="cb17-6"><a href="#cb17-6" aria-hidden="true" tabindex="-1"></a>  <span class="fu">print</span>(promedio)</span>
 <span id="cb17-7"><a href="#cb17-7" aria-hidden="true" tabindex="-1"></a>}</span></code><button title="Copy to Clipboard" class="code-copy-button"><i class="bi"></i></button></pre></div>
 <div class="cell-output cell-output-stdout">
-<pre><code>[1] 0.08818456
-[1] 0.04085476
-[1] -0.04390835
-[1] -0.4116029</code></pre>
+<pre><code>[1] 0.4265535
+[1] 0.4043566
+[1] 0.1688598
+[1] 0.2375841</code></pre>
 </div>
 </div>
 </section>
